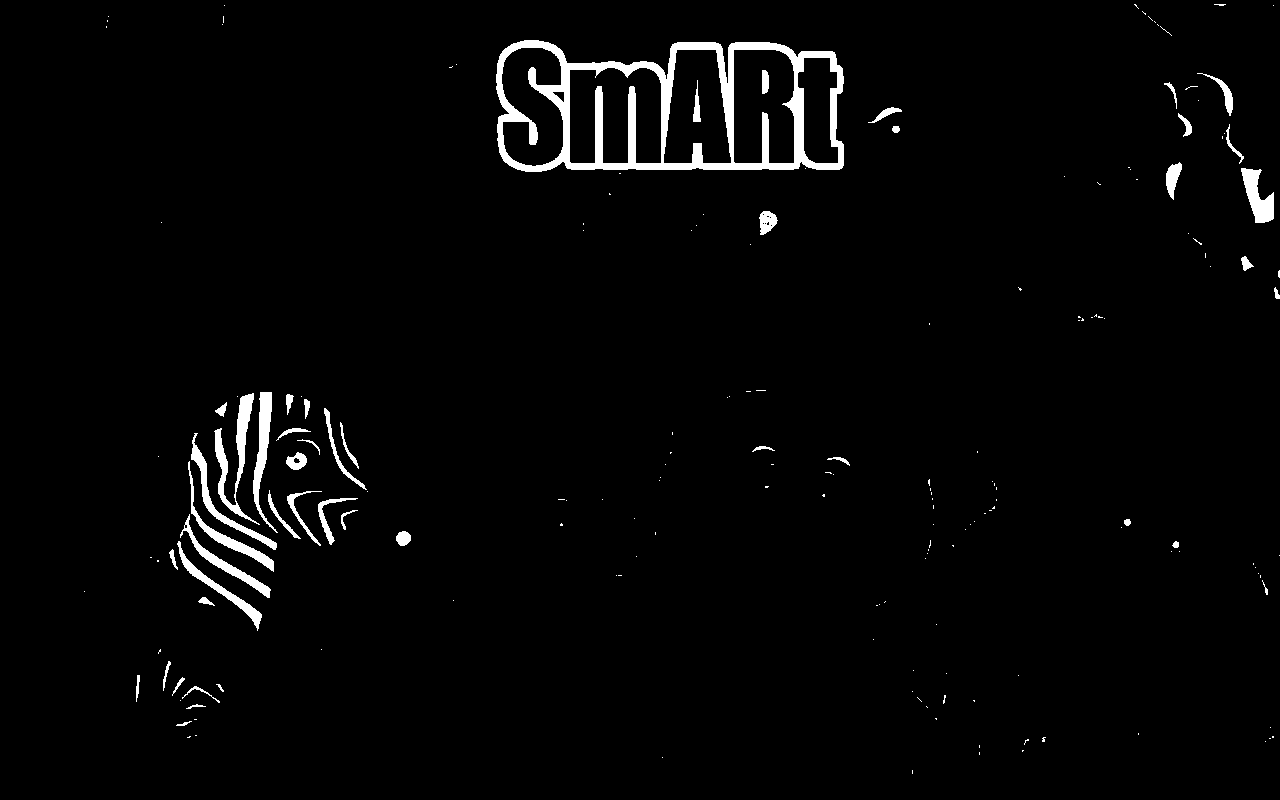
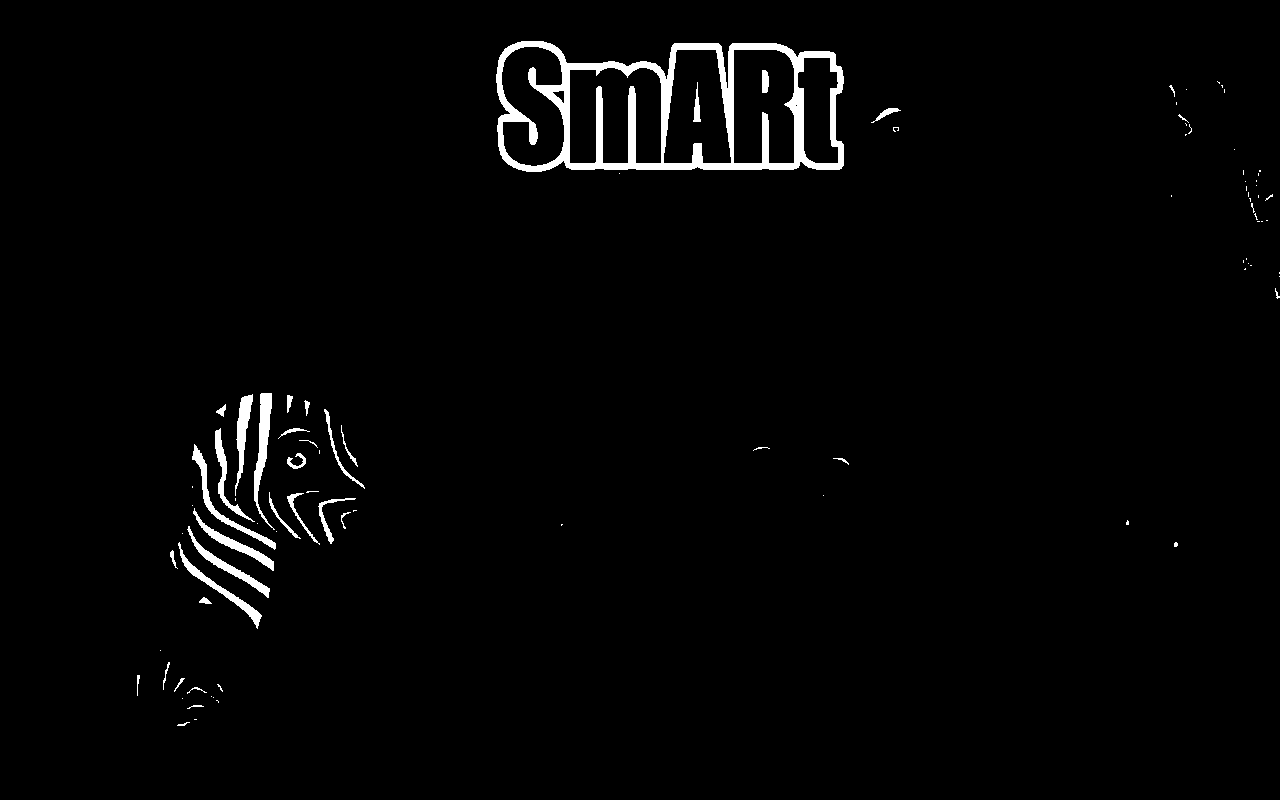
HSVTEST

diff --git a/src/test/SliderWindow.java b/src/test/SliderWindow.java
@@ -1,0 +1,153 @@
+package test;
+
+import controller.SmARt;
+import javafx.application.Application;
+import javafx.application.Platform;
+import javafx.beans.value.ChangeListener;
+import javafx.beans.value.ObservableValue;
+import javafx.event.EventHandler;
+import javafx.scene.Scene;
+import javafx.scene.canvas.Canvas;
+import javafx.scene.canvas.GraphicsContext;
+import javafx.scene.control.Slider;
+import javafx.scene.control.TextField;
+import javafx.scene.input.KeyCode;
+import javafx.scene.input.KeyEvent;
+import javafx.scene.layout.FlowPane;
+import javafx.scene.layout.GridPane;
+import javafx.scene.layout.StackPane;
+import javafx.scene.paint.Color;
+import javafx.scene.text.Font;
+import javafx.scene.text.Text;
+import javafx.stage.Stage;
+import javafx.stage.StageStyle;
+import menu.MainMenu;
+
+public class SliderWindow extends Application{
+
+  public static void main(String[] args) {
+    launch();
+  }
+
+  private Slider hueMin;
+  private Slider hueMax;
+  private Slider satMin;
+  private Slider satMax;
+  private Slider valMin;
+  private Slider valMax;
+  private Text hueMinText;
+  private Text hueMaxText;
+  private Text satMinText;
+  private Text satMaxText;
+  private Text valMinText;
+  private Text valMaxText;
+
+  @Override
+  public void start(Stage primaryStage) throws Exception {
+    primaryStage.setTitle("Sliders");
+    primaryStage.setWidth(240);
+    primaryStage.setHeight(140);
+    hueMin = new Slider(0, 180, 0);
+    hueMax = new Slider(0, 180, 180);
+    satMin = new Slider(0, 255, 0);
+    satMax = new Slider(0, 255, 255);
+    valMin = new Slider(0, 255, 0);
+    valMax = new Slider(0, 255, 255);
+    hueMin.valueProperty().addListener(new ChangeListener<Number>() {
+      public void changed(ObservableValue<? extends Number> ov,
+          Number old_val, Number new_val) {
+        updateTextFields();
+      }
+    });
+    hueMax.valueProperty().addListener(new ChangeListener<Number>() {
+      public void changed(ObservableValue<? extends Number> ov,
+          Number old_val, Number new_val) {
+        updateTextFields();
+      }
+    });
+    satMin.valueProperty().addListener(new ChangeListener<Number>() {
+      public void changed(ObservableValue<? extends Number> ov,
+          Number old_val, Number new_val) {
+        updateTextFields();
+      }
+    });
+    satMax.valueProperty().addListener(new ChangeListener<Number>() {
+      public void changed(ObservableValue<? extends Number> ov,
+          Number old_val, Number new_val) {
+        updateTextFields();
+      }
+    });
+    valMin.valueProperty().addListener(new ChangeListener<Number>() {
+      public void changed(ObservableValue<? extends Number> ov,
+          Number old_val, Number new_val) {
+        updateTextFields();
+      }
+    });
+    valMax.valueProperty().addListener(new ChangeListener<Number>() {
+      public void changed(ObservableValue<? extends Number> ov,
+          Number old_val, Number new_val) {
+        updateTextFields();
+      }
+    });
+    
+    hueMinText = new Text("hueMin = 0");
+    hueMaxText = new Text("hueMax = 180");
+    satMinText = new Text("satMin = 0");
+    satMaxText = new Text("satMax = 255");
+    valMinText = new Text("valMin = 0");
+    valMaxText = new Text("valMax = 255");
+
+    FlowPane root = new FlowPane();
+
+    root.getChildren().add(hueMin);
+    root.getChildren().add(hueMinText);
+    root.getChildren().add(hueMax);
+    root.getChildren().add(hueMaxText);
+    root.getChildren().add(satMin);
+    root.getChildren().add(satMinText);
+    root.getChildren().add(satMax);
+    root.getChildren().add(satMaxText);
+    root.getChildren().add(valMin);
+    root.getChildren().add(valMinText);
+    root.getChildren().add(valMax);
+    root.getChildren().add(valMaxText);
+
+    Scene scene = new Scene(root);
+    primaryStage.setScene(scene);
+    primaryStage.show();
+
+  }
+
+  private void updateTextFields() {
+    hueMinText.setText("hueMin = " + (int) hueMin.getValue());
+    hueMaxText.setText("hueMax = " + (int) hueMax.getValue());
+    satMinText.setText("satMin = " + (int) satMin.getValue());
+    satMaxText.setText("satMax = " + (int) satMax.getValue());
+    valMinText.setText("valMin = " + (int) valMin.getValue());
+    valMaxText.setText("valMax = " + (int) valMax.getValue());
+  }
+
+  public int getHueMin() {
+    return (int) hueMin.getValue();
+  }
+  
+  public int getHueMax() {
+    return (int) hueMax.getValue();
+  }
+  
+  public int getSatMin() {
+    return (int) hueMin.getValue();
+  }
+  
+  public int getSatMax() {
+    return (int) hueMax.getValue();
+  }
+  
+  public int getValMin() {
+    return (int) hueMin.getValue();
+  }
+  
+  public int getValMax() {
+    return (int) hueMax.getValue();
+  }
+}

diff --git a/src/test/Clock.java b/src/test/Clock.java
@@ -1,0 +1,69 @@
+package test;
+
+import java.awt.image.BufferedImage;
+import java.util.Date;
+
+import controller.CameraReader;
+import javafx.application.Platform;
+import model.Game;
+import view.GameView;
+
+public class Clock extends Thread {
+
+  public static final long TICK_LENGTH = 0;
+  
+  private boolean running = true;
+  private SliderWindow sliderWindow;
+  private CameraReader camReader;
+  private ImageWindow imageWindow;
+  private HSVimgFactory imgFactory;
+
+  public Clock(SliderWindow sliderWindow, CameraReader cameraReader, ImageWindow imageWindow, HSVimgFactory imgFactory) {
+    this.sliderWindow = sliderWindow;
+    this.camReader = cameraReader;
+    this.imageWindow = imageWindow;
+    this.imgFactory = imgFactory;
+  }
+
+  public void run() {
+    camReader.open();
+    try {
+      while (running) {
+        long startTime = new Date().getTime();
+        tick();
+        waitForNextTick(startTime);
+      }
+    } finally {
+      camReader.close();
+    }
+  }
+
+  private void waitForNextTick(long startTime) {
+    long ammountOfTimeWeTook = new Date().getTime() - startTime;
+    long timeToWait = TICK_LENGTH - ammountOfTimeWeTook;
+    if (timeToWait > 0) {
+      try {
+        Thread.sleep(timeToWait);
+      } catch (InterruptedException e) {
+        e.printStackTrace();
+      }
+    } else {
+      //System.out.println("Can't keep up! Time too late: " + timeToWait * -1 + " ms");
+    }
+  }
+
+  private void tick() {
+    updateHSVValues();
+    BufferedImage image = camReader.takePhoto();
+    BufferedImage hsvImage = imgFactory.getHSVImage(image);
+    imageWindow.showImage(hsvImage);
+  }
+  
+  private void updateHSVValues() {
+    sliderWindow.getHueMin();
+  }
+
+  public void pleaseStop() {
+    running = false;
+  }
+}

diff --git a/src/test/ImageWindow.java b/src/test/ImageWindow.java
@@ -1,0 +1,40 @@
+package test;
+
+import java.awt.image.BufferedImage;
+
+import javafx.application.Application;
+import javafx.application.Platform;
+import javafx.embed.swing.SwingFXUtils;
+import javafx.event.EventHandler;
+import javafx.scene.Scene;
+import javafx.scene.image.ImageView;
+import javafx.scene.input.KeyCode;
+import javafx.scene.input.KeyEvent;
+import javafx.scene.layout.StackPane;
+import javafx.stage.Stage;
+import menu.MainMenu;
+
+public class ImageWindow extends Application {
+
+  private ImageView imgView;
+
+  @Override
+  public void start(Stage primaryStage) throws Exception {
+    primaryStage.setHeight(720);
+    primaryStage.setWidth(1280);
+
+    StackPane root = new StackPane();
+
+    imgView = new ImageView();
+
+    Scene scene = new Scene(root);
+    primaryStage.setScene(scene);
+    primaryStage.show();
+  }
+
+  public void showImage(BufferedImage bImage) {
+    if (imgView != null) {
+      imgView.setImage(SwingFXUtils.toFXImage(bImage, null));
+    }
+  }
+}

diff --git a/src/test/HSVTester.java b/src/test/HSVTester.java
@@ -1,0 +1,18 @@
+package test;
+
+import java.awt.Dimension;
+
+import controller.CameraReader;
+
+public class HSVTester {
+
+  public static void main(String[] args) {
+    ImageWindow imgWin = new ImageWindow();
+    SliderWindow slWin = new SliderWindow();
+    CameraReader camReader = new CameraReader(0, new Dimension(1280, 720));
+    Clock clock = new Clock(slWin, camReader, slWin, null);
+    
+    clock.start();
+  }
+  
+}

diff --git a/src/controller/SmARt.java b/src/controller/SmARt.java
@@ -52,7 +52,7 @@ public class SmARt {
 
     Game game = new Game();
     CameraReader camReader = new CameraReader(CAM_NR, CAM_DIMENSION);
-    ImgProcessor imgProcessor = new SimpleImageProcessor(0,0,0,20);
+    ImgProcessor imgProcessor = new ImageProcessor();//new SimpleImageProcessor(0,0,0,20);
     Clock clock = new Clock(game, view, camReader, imgProcessor);
     clock.start();
   }

diff --git a/src/controller/ImageProcessor.java b/src/controller/ImageProcessor.java
@@ -27,7 +27,7 @@ public class ImageProcessor implements ImgProcessor {
   private static final int SAT_MIN = 0;
   private static final int SAT_MAX = 255;
   private static final int VAL_MIN = 0;
-  private static final int VAL_MAX = 50;
+  private static final int VAL_MAX = 35;
 
   private static final double MAX_COLORCODE = 255;
   private static final double SENSITIFITY = 0.25;
